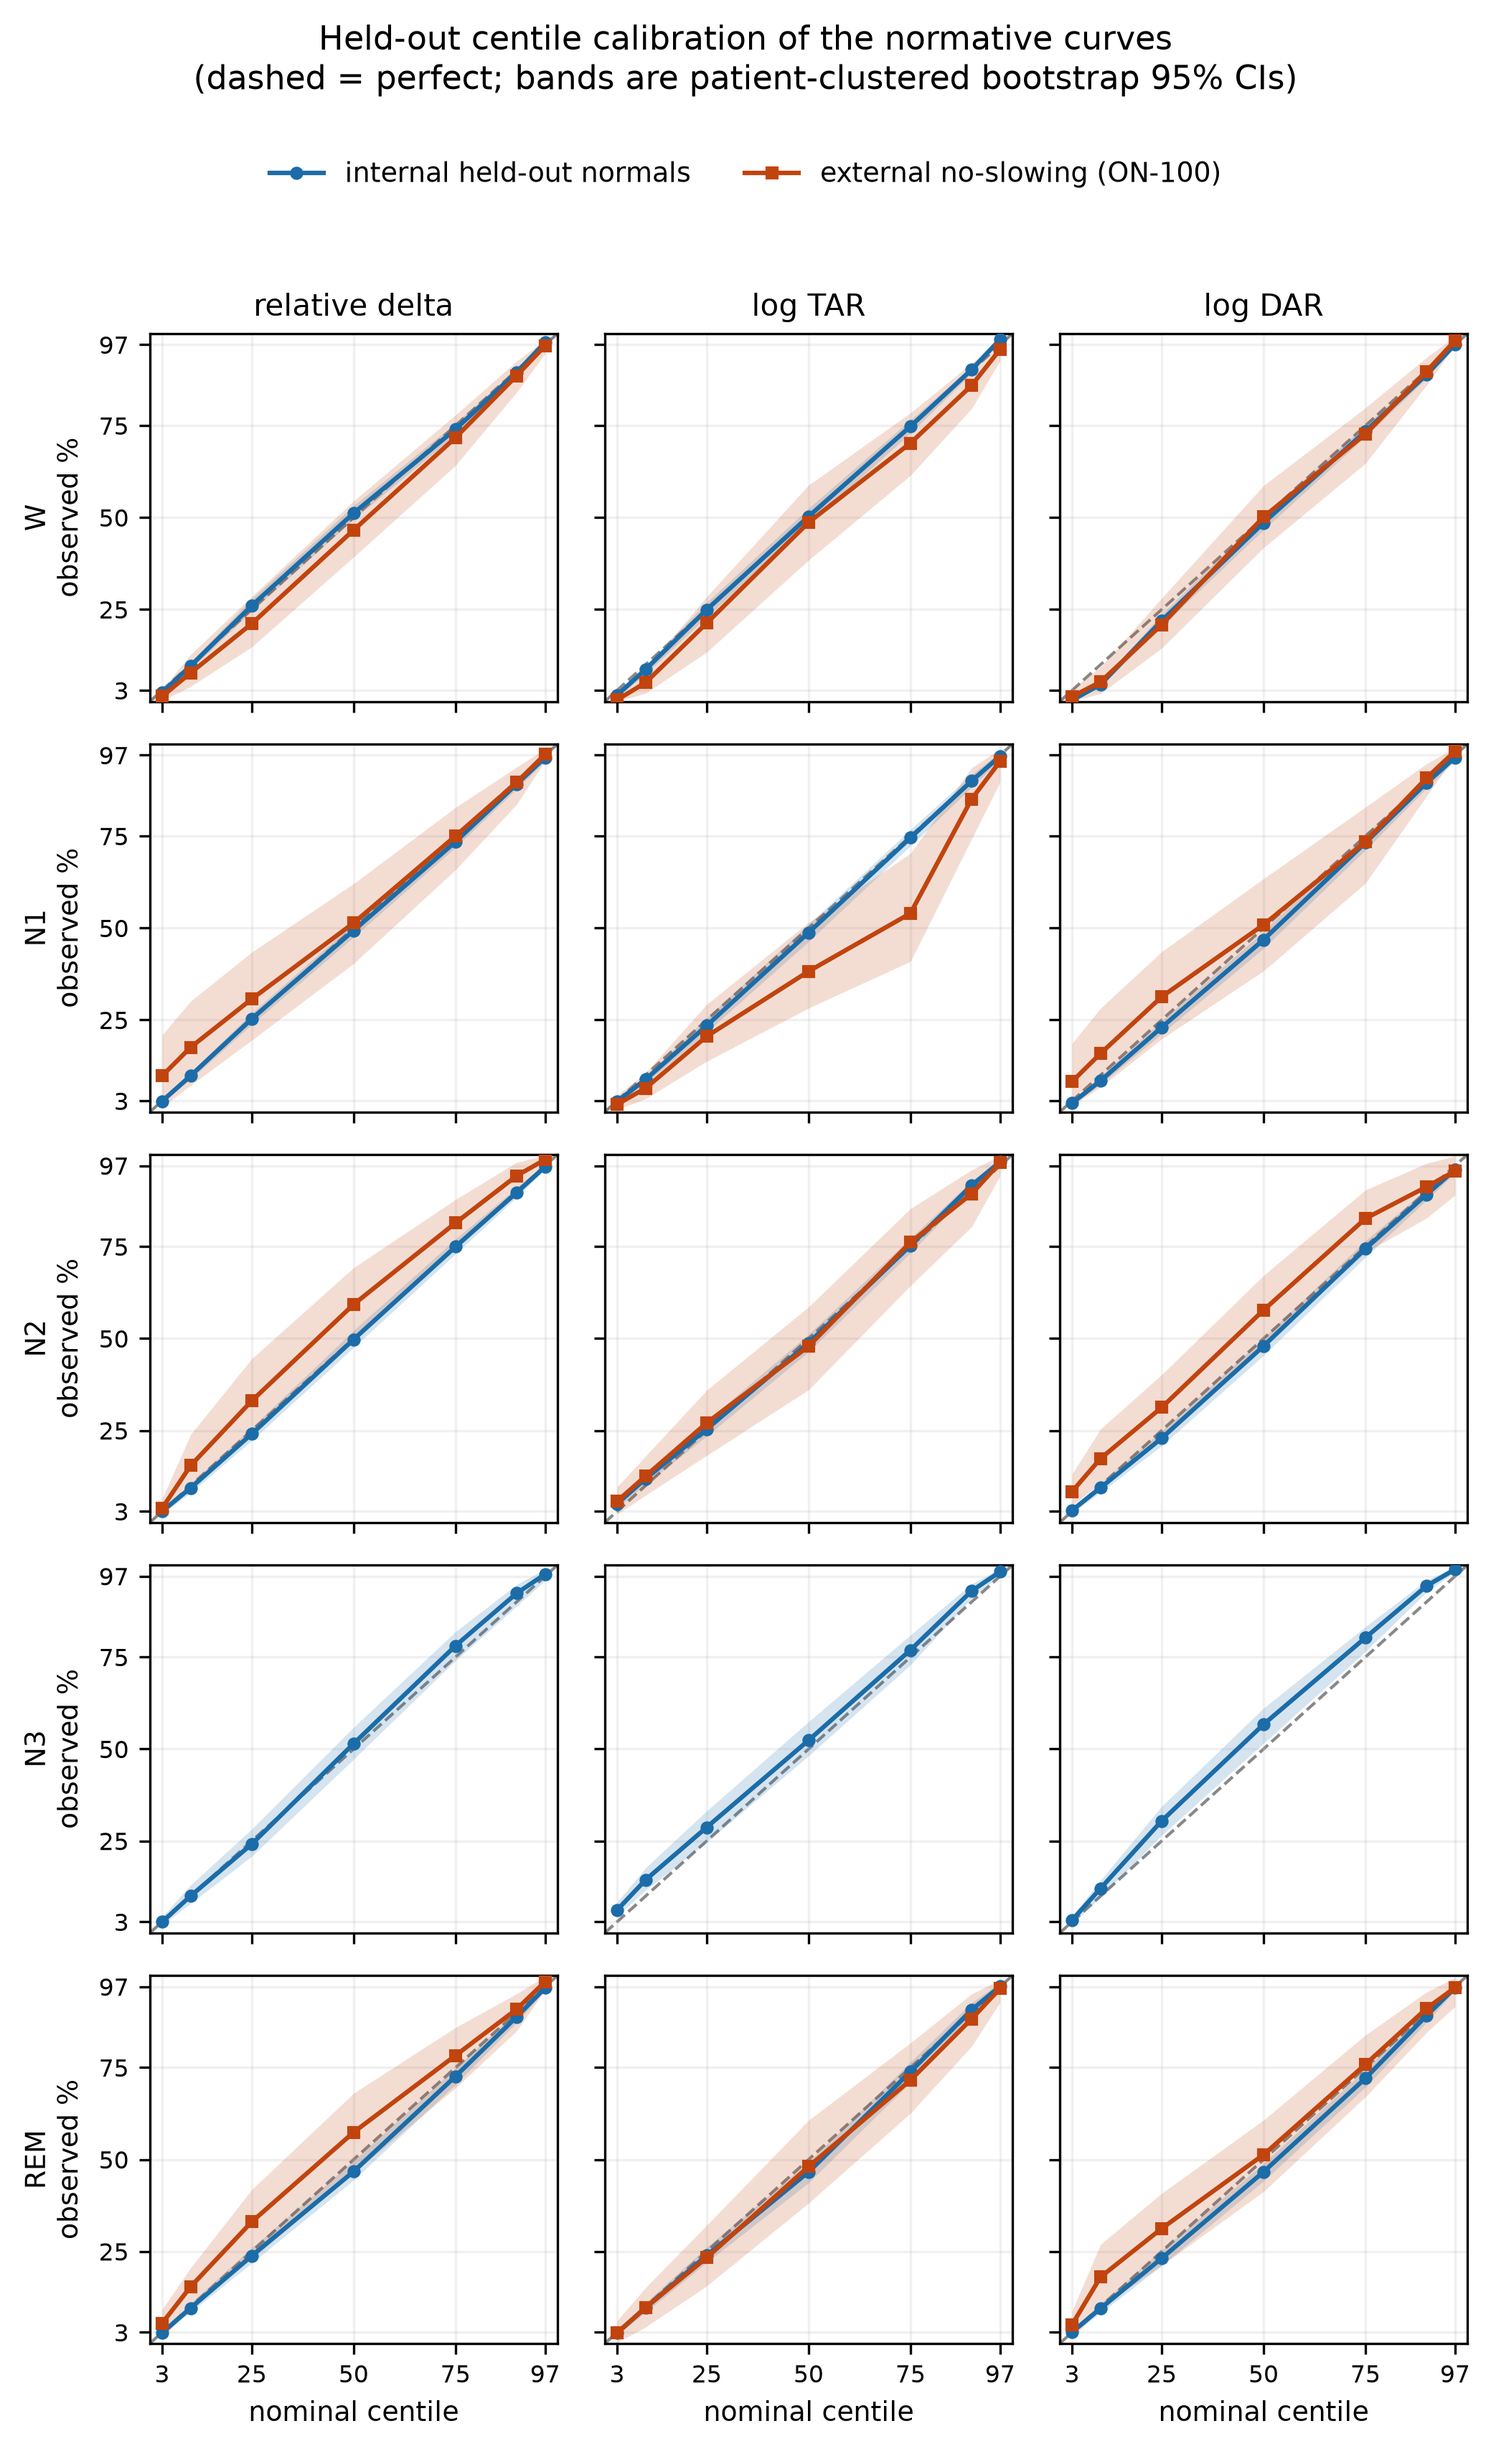
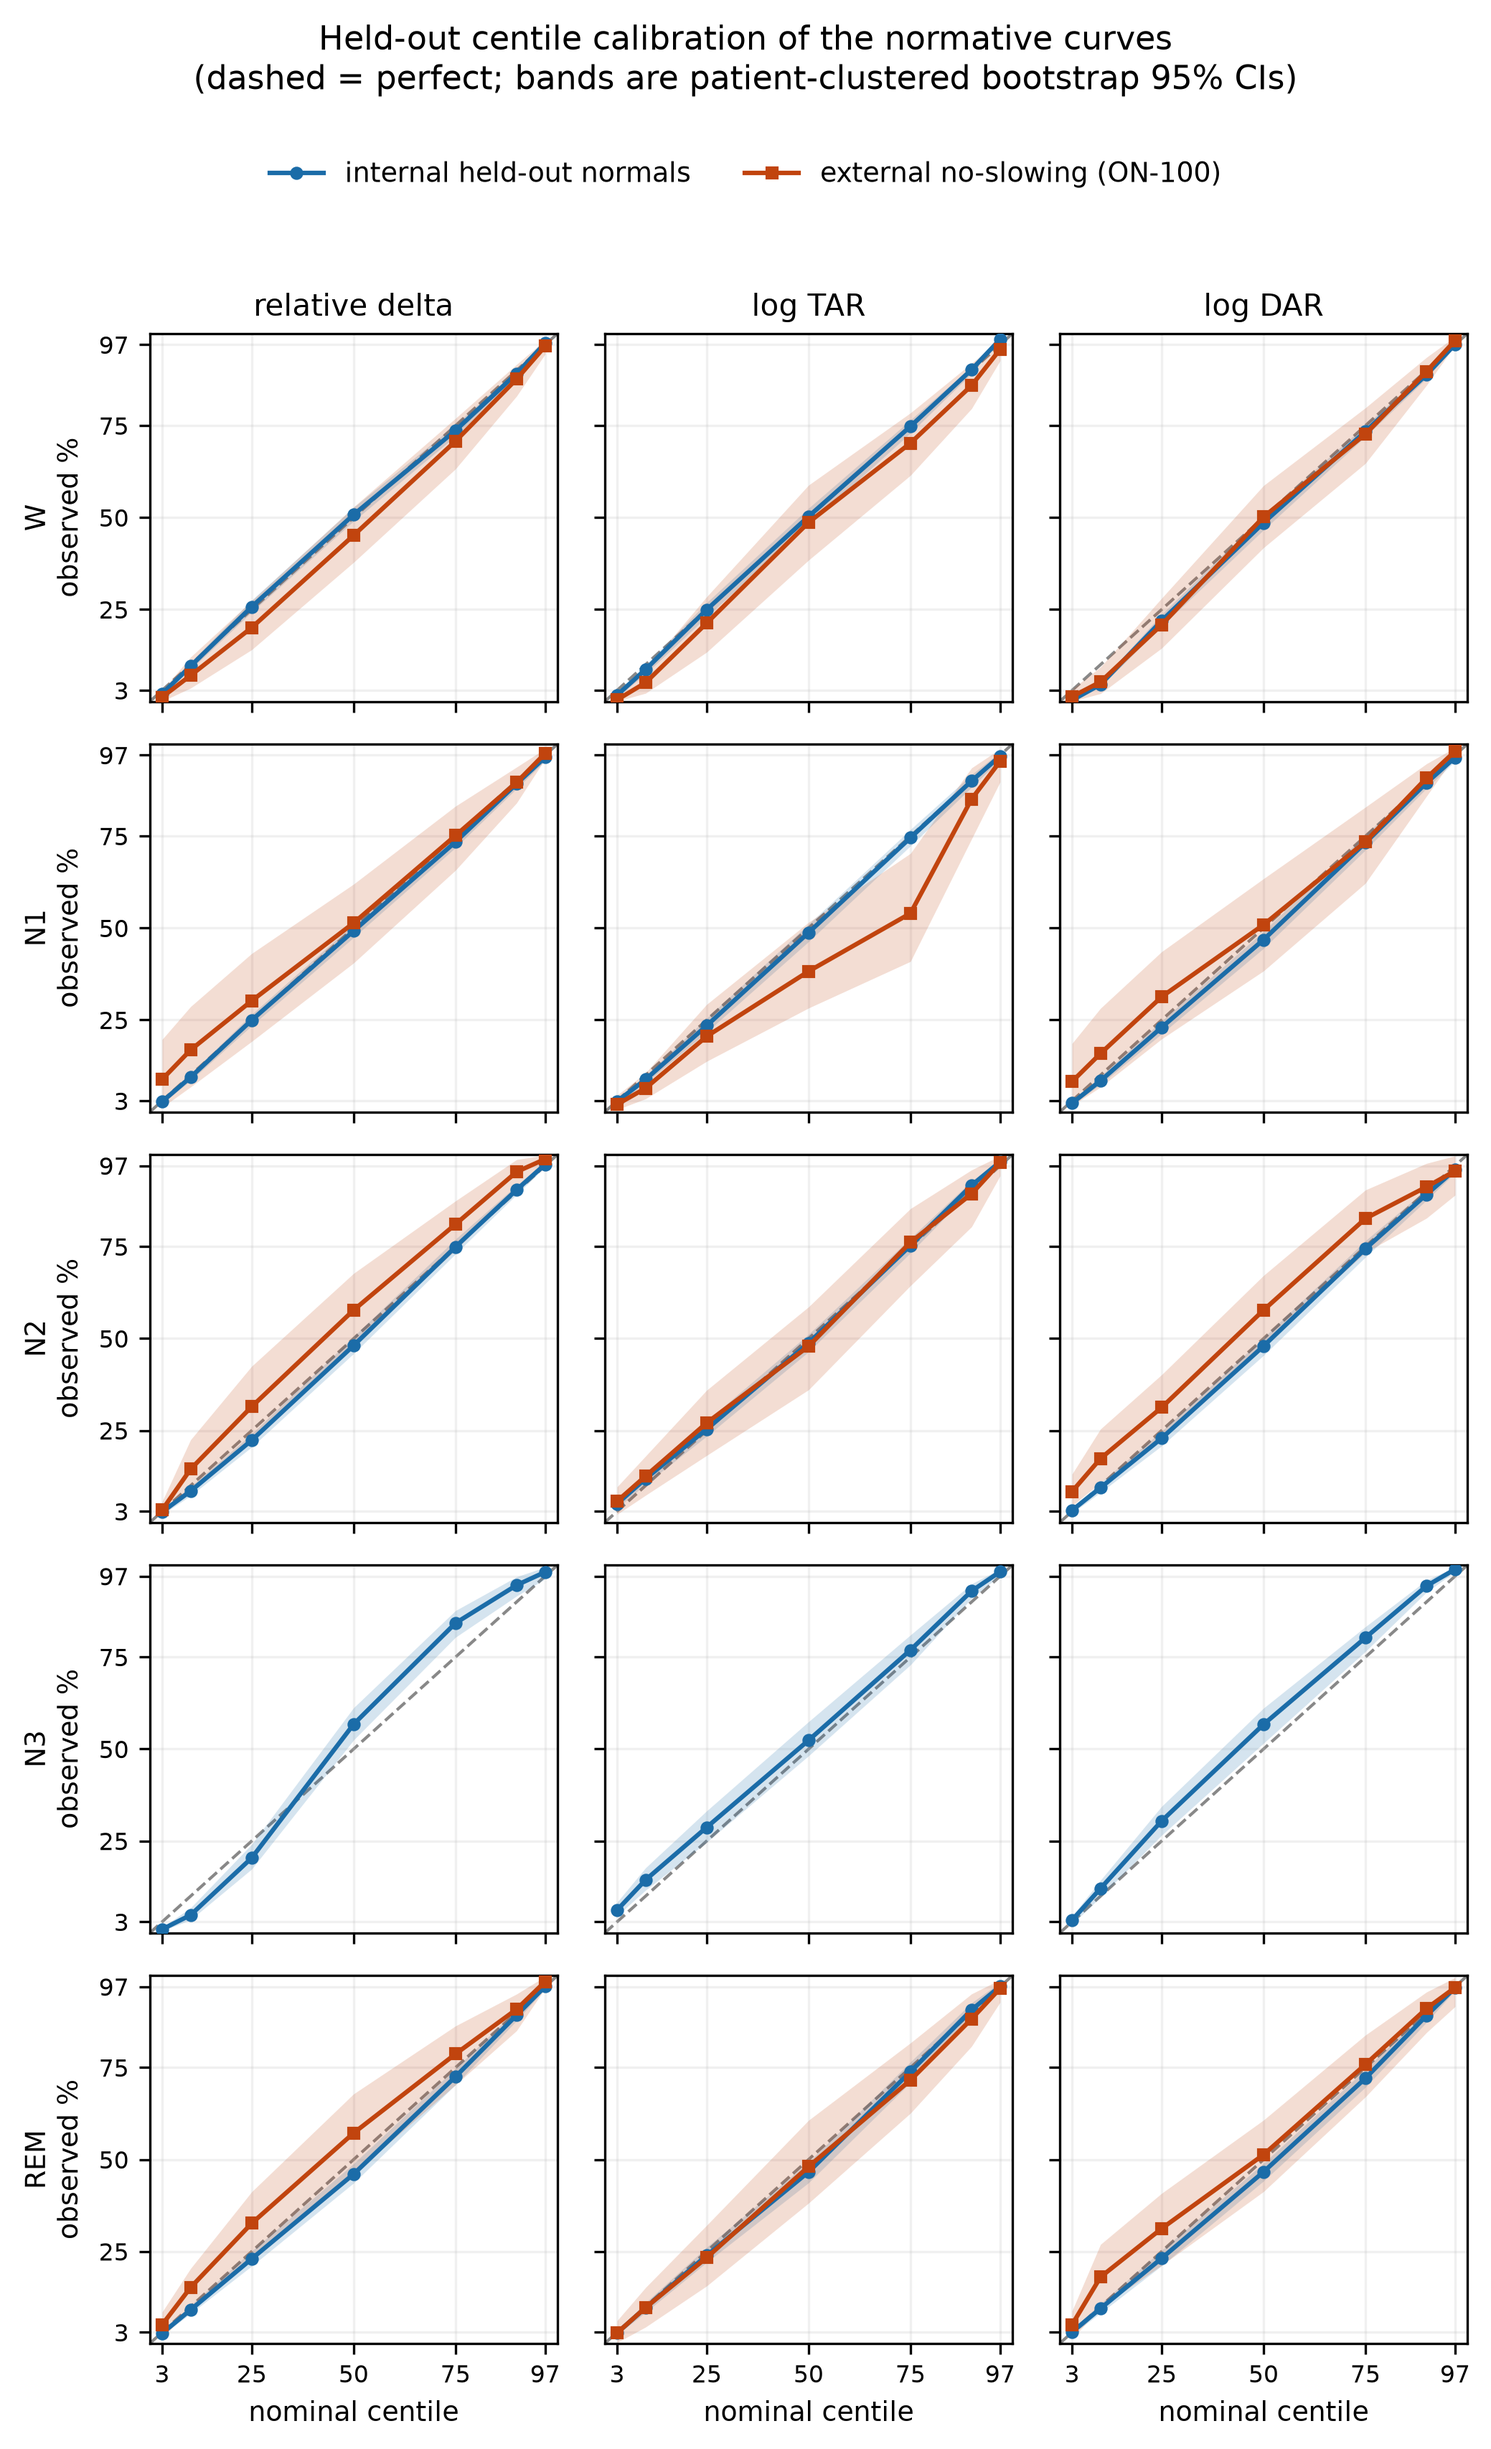
Harden .gitignore against redistributing raw EEG; regenerated figures
While auditing what a push would send, found five raw EEG recordings
(~1 GB) staged for a PUBLIC repo:

  data/raw/h5_pilot/h5/sub-S0001111189188__..._eeg.h5   (and 4 more)

DATA_SOURCE.md is explicit that "Raw EEG and free-text report content are
not redistributed; they are available via BDSP credentialed access", so
publishing them would have contradicted the paper's own Data Availability
statement and put DUA-governed recordings in the open. They were pulled
in by a broad `git add -A` past the `!data/raw/` un-ignore.

`git rm` alone would not have been enough -- the blobs travel with a push
regardless -- so this branch was rebuilt by replaying all 23 commits onto
origin/main with the path dropped. Verified: the only difference from the
original branch is those five files, no h5_pilot blob appears anywhere in
this branch's history, and docs/, scripts/, src/, results/ and figures/
are byte-identical.

.gitignore now excludes *.h5, *.edf and *.mat under data/raw/ so a broad
add cannot do this again.

Also commits the figures regenerated after the weighted-norms refit.

diff --git a/results/story/slow_peak_frequency.md b/results/story/slow_peak_frequency.md
@@ -1,14 +1,14 @@
 # Slow-band frequency vs the frequency the report states (C146-c)
 
-Measured on **40** recordings that state a slowing frequency in a slowing clause (cohort-wide, 5,785 such recordings exist).
+Measured on **30** recordings that state a slowing frequency in a slowing clause (cohort-wide, 5,785 such recordings exist).
 
 | estimator | Spearman rho | p | median \|error\| |
 |---|---|---|---|
-| **slow-band median frequency (1-8 Hz)** | 0.177 | 0.27 | 1.13 Hz |
-| slow-band 1/f-detrended peak | -0.025 | 0.88 | 2.82 Hz |
-| full-band peak (1-45 Hz), the stored `peak_freq` | -0.077 | 0.64 | 2.00 Hz |
+| **slow-band median frequency (1-8 Hz)** | 0.083 | 0.66 | 1.25 Hz |
+| slow-band 1/f-detrended peak | -0.105 | 0.58 | 2.18 Hz |
+| full-band peak (1-45 Hz), the stored `peak_freq` | -0.219 | 0.25 | 2.00 Hz |
 
-Reported frequency: median 3.00 Hz (IQR 2.00-5.00); measured slow-band median 2.02 Hz (IQR 1.72-2.31).
+Reported frequency: median 3.00 Hz (IQR 2.12-4.88); measured slow-band median 1.93 Hz (IQR 1.63-2.44).
 
 A raw PSD argmax inside the slow band is NOT usable and is excluded: EEG power falls off as roughly 1/f^a, so the largest value in any low band is its lowest bin. Measured that way every recording returns 1.0 Hz exactly and the correlation with the reported frequency is nil (rho = -0.10). Both estimators above are constructed not to be dominated by that aperiodic background.
 
